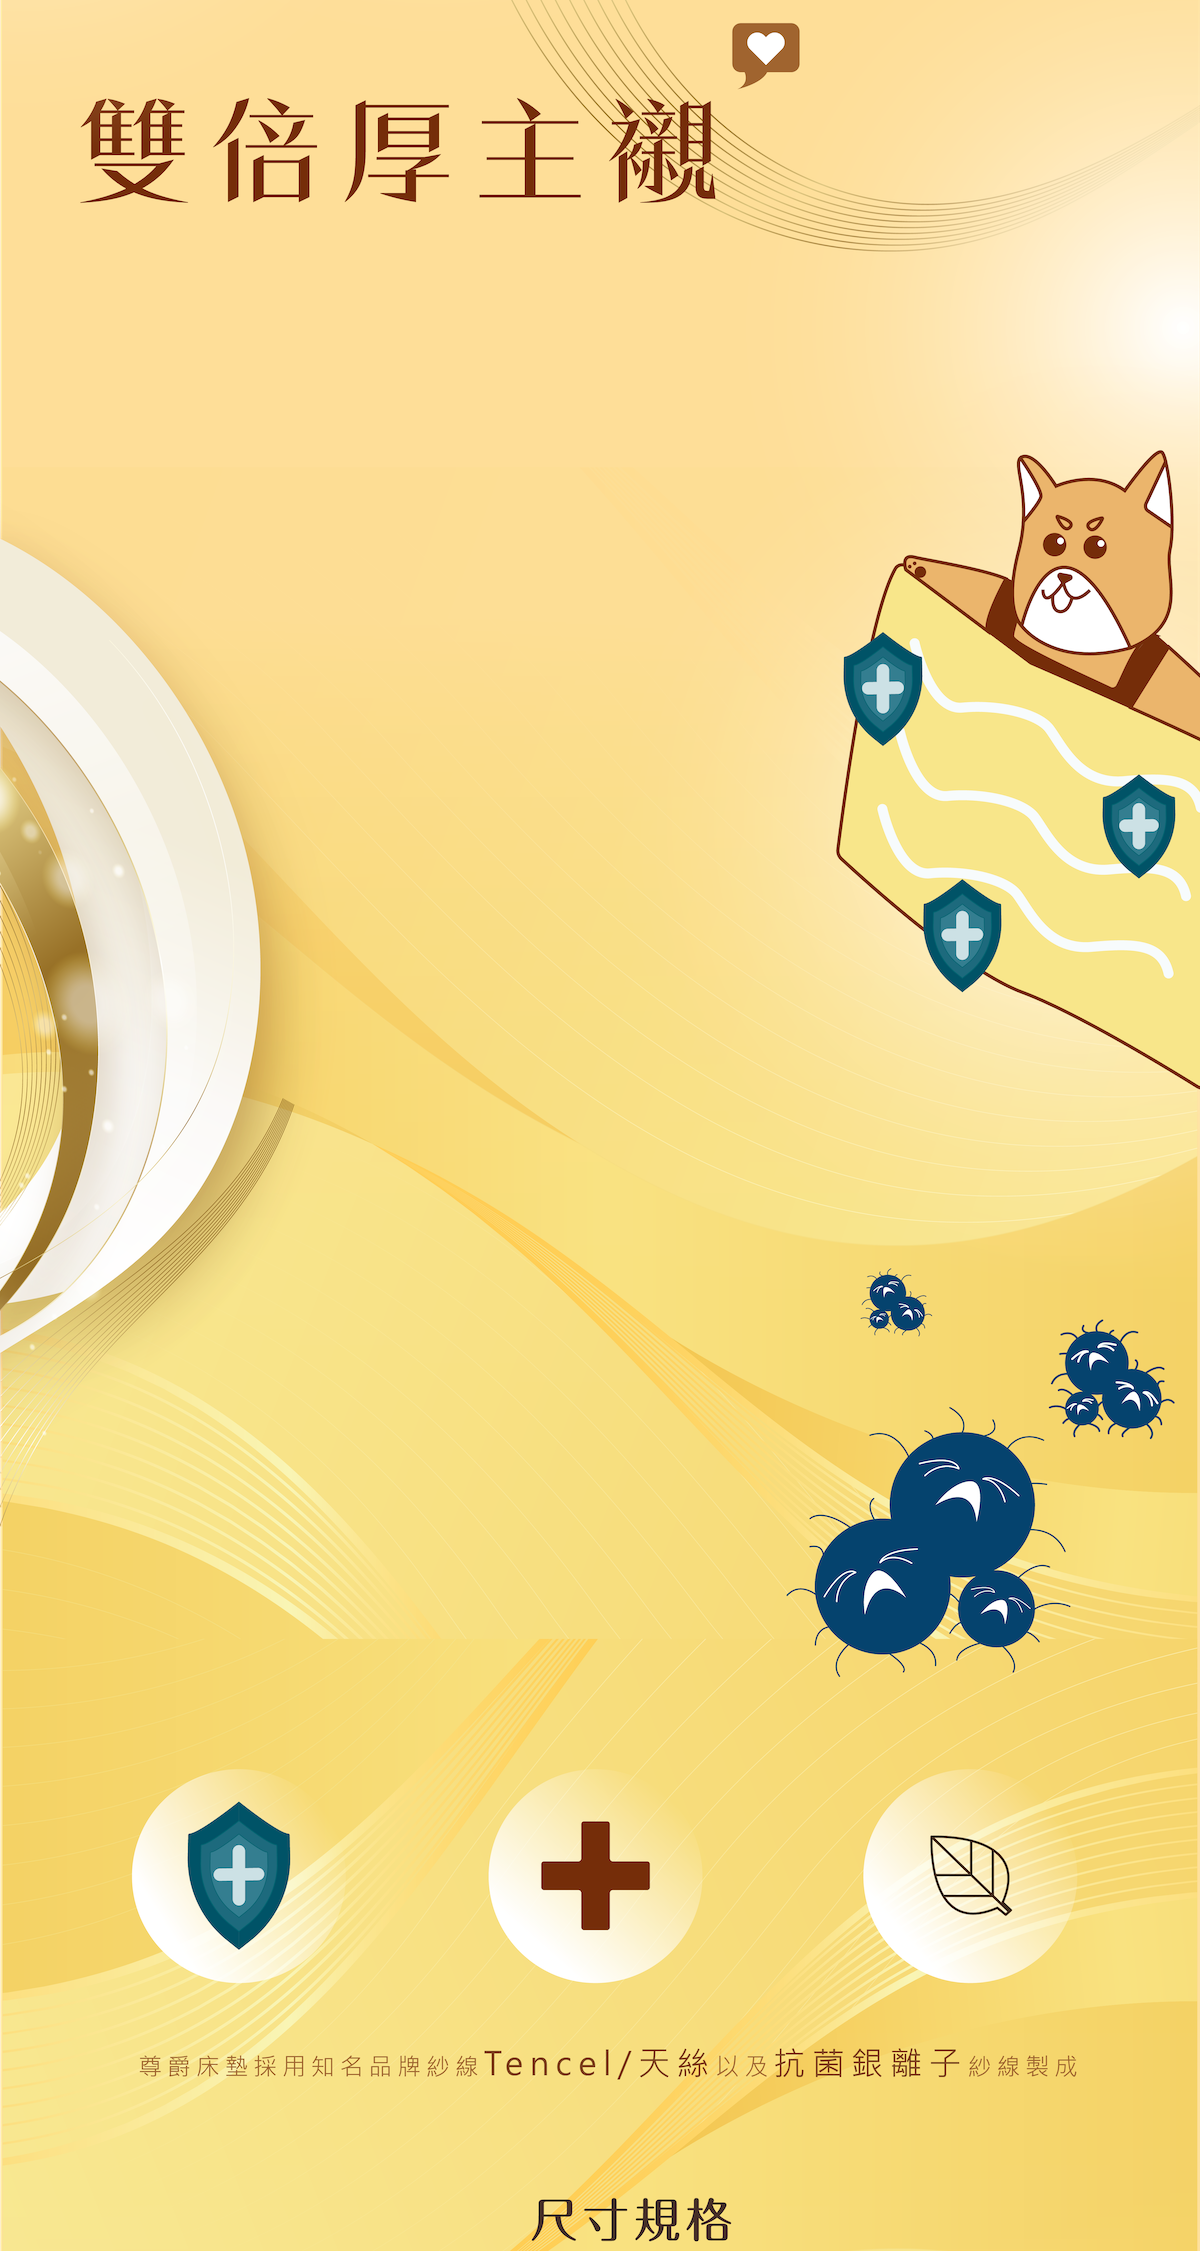
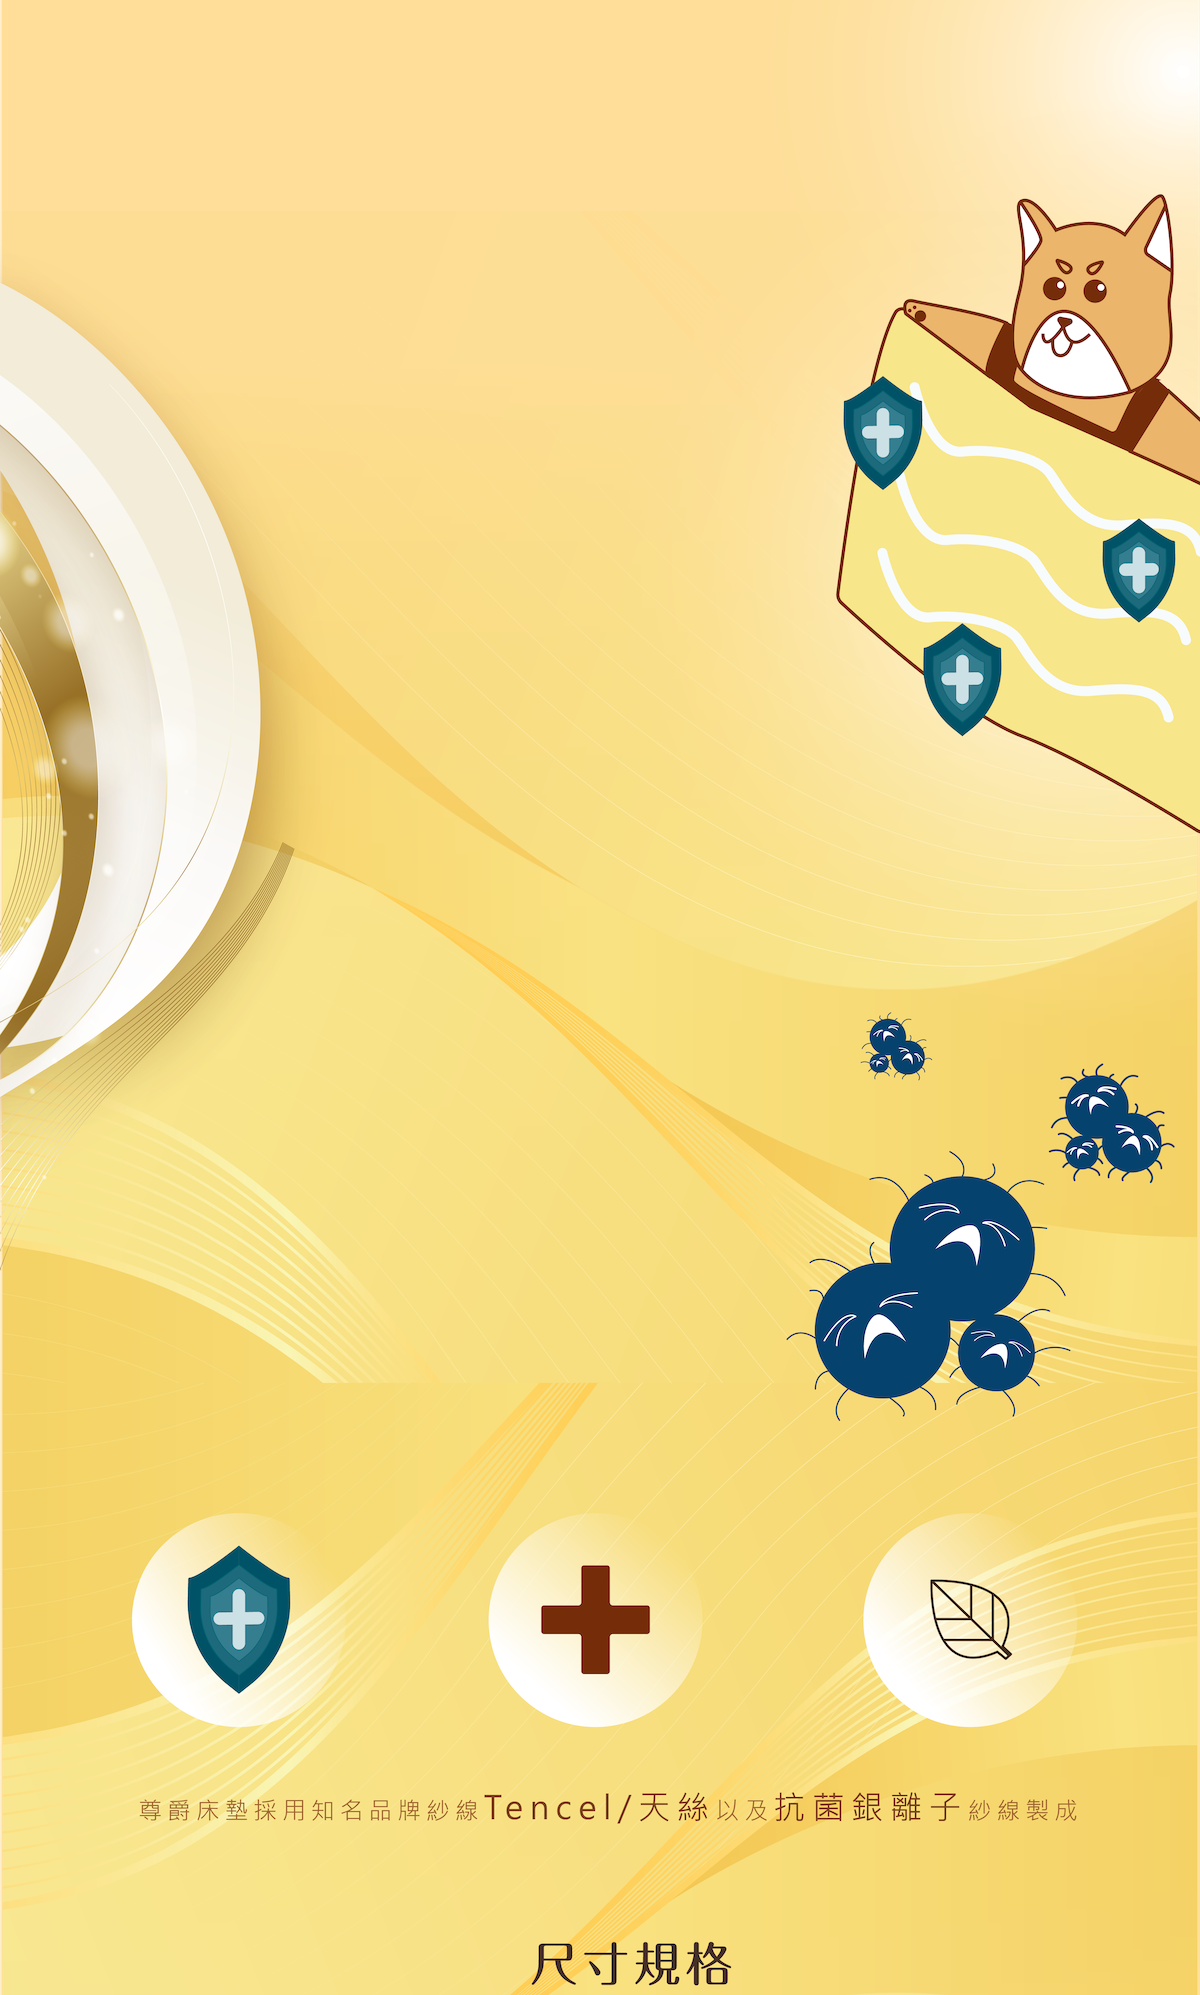
尊爵頁剩餘文字＋尺寸規格切版

diff --git a/products_honor.html b/products_honor.html
@@ -108,11 +108,56 @@
                     </div>
                     <div id="section5">
                       <img class="divBaseImg" src="images/products/honor/section5.png" alt="">
+                      <div class="position-absolute section_container">
+                        <div class="textField position-absolute">
+                          <div class="title">
+                            <div>
+                              <span class="line"></span>
+                              <span>厚度加倍</span>
+                          </div>
+                          </div>
+                          <div class="desc">
+                            <div>一般床墊主襯（純天然乳膠或矽膠）都是採用1英吋</div>
+                            <div>也就是2.54cm的厚度，尊爵採用的是加倍厚的乳膠/矽膠</div>
+                          </div>
+                        </div>
+                      </div>
                     </div>
                     <div id="section6">
                       <img class="divBaseImg" src="images/products/honor/section6.png" alt="">
+                      <div class="besSizeContainer">
+                        <div class="besSizeDiv">
+                          <img class="bedSize1" src="images/products/honor/bedSize1.png" alt="">
+                          <div class="textField">
+                            <div class="line1">3.5呎</div>
+                            <div class="line2">單人加大</div>
+                          </div>
+                        </div>
+                        <div class="besSizeDiv">
+                            <img class="bedSize2" src="images/products/honor/bedSize2.png" alt="">
+                            <div class="textField">
+                              <div class="line1">5呎</div>
+                              <div class="line2">標準雙人</div>
+                            </div>
+                        </div>
+                        <div class="besSizeDiv">
+                          <img class="bedSize3" src="images/products/honor/bedSize3.png" alt="">
+                          <div class="textField">
+                            <div class="line1">6呎</div>
+                            <div class="line2">雙人加大</div>
+                          </div>
+                        </div>
+                        <div class="besSizeDiv">
+                            <img class="bedSize4" src="images/products/honor/bedSize4.png" alt="">
+                            <div class="textField">
+                              <div class="line1">7呎</div>
+                              <div class="line2">雙人特大</div>
+                            </div>
+                          </div>
+                        </div>
+                      </div>
                     </div>
-                </div>
+                  </div>
               </section>
         </main>
         <footer></footer>
@@ -165,7 +210,9 @@ section#products_page {
 #section1,
 #section2,
 #section3,
-#section4 {
+#section4,
+#section5,
+#section6 {
   position: relative;
 }
 
@@ -193,6 +240,10 @@ section#products_page {
   letter-spacing: 10px;
 }
 
+#section5 .section_container .textField .title {
+  text-align: left;
+  padding-left: 17vw;
+}
 .section_container .textField .title div {
   margin: 5px;
 }
@@ -231,11 +282,16 @@ section .divImgElement {
   width: 100%;
   text-align: center;
 }
-.section_container .textField .desc div {
-  margin: 10px 0;
+#section5 .section_container .textField .desc {
+  padding: 15px;
 }
 
-#section2 .section_container .textField {
+.section_container .textField .desc div {
+  line-height: 30px;
+}
+
+#section2 .section_container .textField,
+#section5 .section_container .textField {
   color: #ab764e;
   width: 100%;
   display: flex;
@@ -243,7 +299,81 @@ section .divImgElement {
   align-items: flex-end;
   flex-direction: column;
 }
+#section5 .section_container .textField {
+  justify-content: flex-start;
+  align-items: flex-start;
+}
 
+#section6 {
+  margin-top: 0px;
+  margin-bottom: 30px;
+}
+
+#section6 .besSizeContainer {
+  display: flex;
+  justify-content: center;
+  align-items: center;
+  position: absolute;
+  top: 5px;
+  width: 100%;
+  max-width: 1000px;
+  left: 50%;
+  transform: translateX(-50%);
+}
+
+#section6 .besSizeDiv {
+  margin: 1.25%;
+  text-align: center;
+}
+#section6 .besSizeDiv img {
+  margin: 0 auto 10px;
+  max-height: 80px;
+}
+#section6 .besSizeDiv img.bedSize1 {
+  width: 13vw;
+  min-width: 45px;
+  max-width: 130px;
+}
+#section6 .besSizeDiv img.bedSize2 {
+  width: 15vw;
+  min-width: 50px;
+  max-width: 135px;
+}
+#section6 .besSizeDiv img.bedSize3 {
+  width: 17vw;
+  min-width: 55px;
+  max-width: 145px;
+}
+#section6 .besSizeDiv img.bedSize4 {
+  width: 20vw;
+  min-width: 60px;
+  max-width: 155px;
+}
+#section6 .besSizeDiv .textField {
+  color: #fff;
+  font-size: 12px;
+  text-align: center;
+  background-color: #604b3b;
+  border-radius: 50%;
+  padding: 20px 10px;
+  transform: scale(0.8);
+  position: relative;
+  width: 65px;
+  height: 65px;
+  margin: 0 auto;
+}
+#section6 .besSizeDiv .textField div {
+  position: absolute;
+  width: 100%;
+  left: 50%;
+  transform: translateX(-50%);
+}
+#section6 .besSizeDiv .textField div.line1 {
+  top: 15px;
+}
+#section6 .besSizeDiv .textField div.line2 {
+  bottom: 15px;
+}
 @media (min-width: 480px) {
   .section_container .textField .title {
     font-size: 36px;
@@ -254,6 +384,28 @@ section .divImgElement {
     text-align: right;
     margin: -10px 2.5vw;
     padding: 0;
+  }
+  #section5 .section_container .textField {
+    margin-top: -15px;
+  }
+  #section5 .section_container .textField .desc {
+    text-align: left;
+    padding: 15px 200px 15px 5vw;
+  }
+
+  #section6 .besSizeDiv {
+    width: 25%;
+  }
+  #section6 .besSizeDiv .textField {
+    font-size: 16px;
+    width: 85px;
+    height: 85px;
+  }
+  #section6 .besSizeDiv .textField div.line1 {
+    top: 20px;
+  }
+  #section6 .besSizeDiv .textField div.line2 {
+    bottom: 20px;
   }
 }
 @media (min-width: 576px) {
@@ -272,6 +424,9 @@ section .divImgElement {
     width: 7vw;
     left: -9vw;
   }
+  section #section5 .title .line::after {
+    left: -11vw;
+  }
 }
 
 @media (min-width: 1200px) {
@@ -284,6 +439,12 @@ section .divImgElement {
   }
   .section_container .textField .desc {
     margin-right: 30px;
+  }
+  section #section5 .title .line::after {
+    left: -145px
+  }
+  #section6 .besSizeContainer {
+    top: 40px;
   }
 }
 
